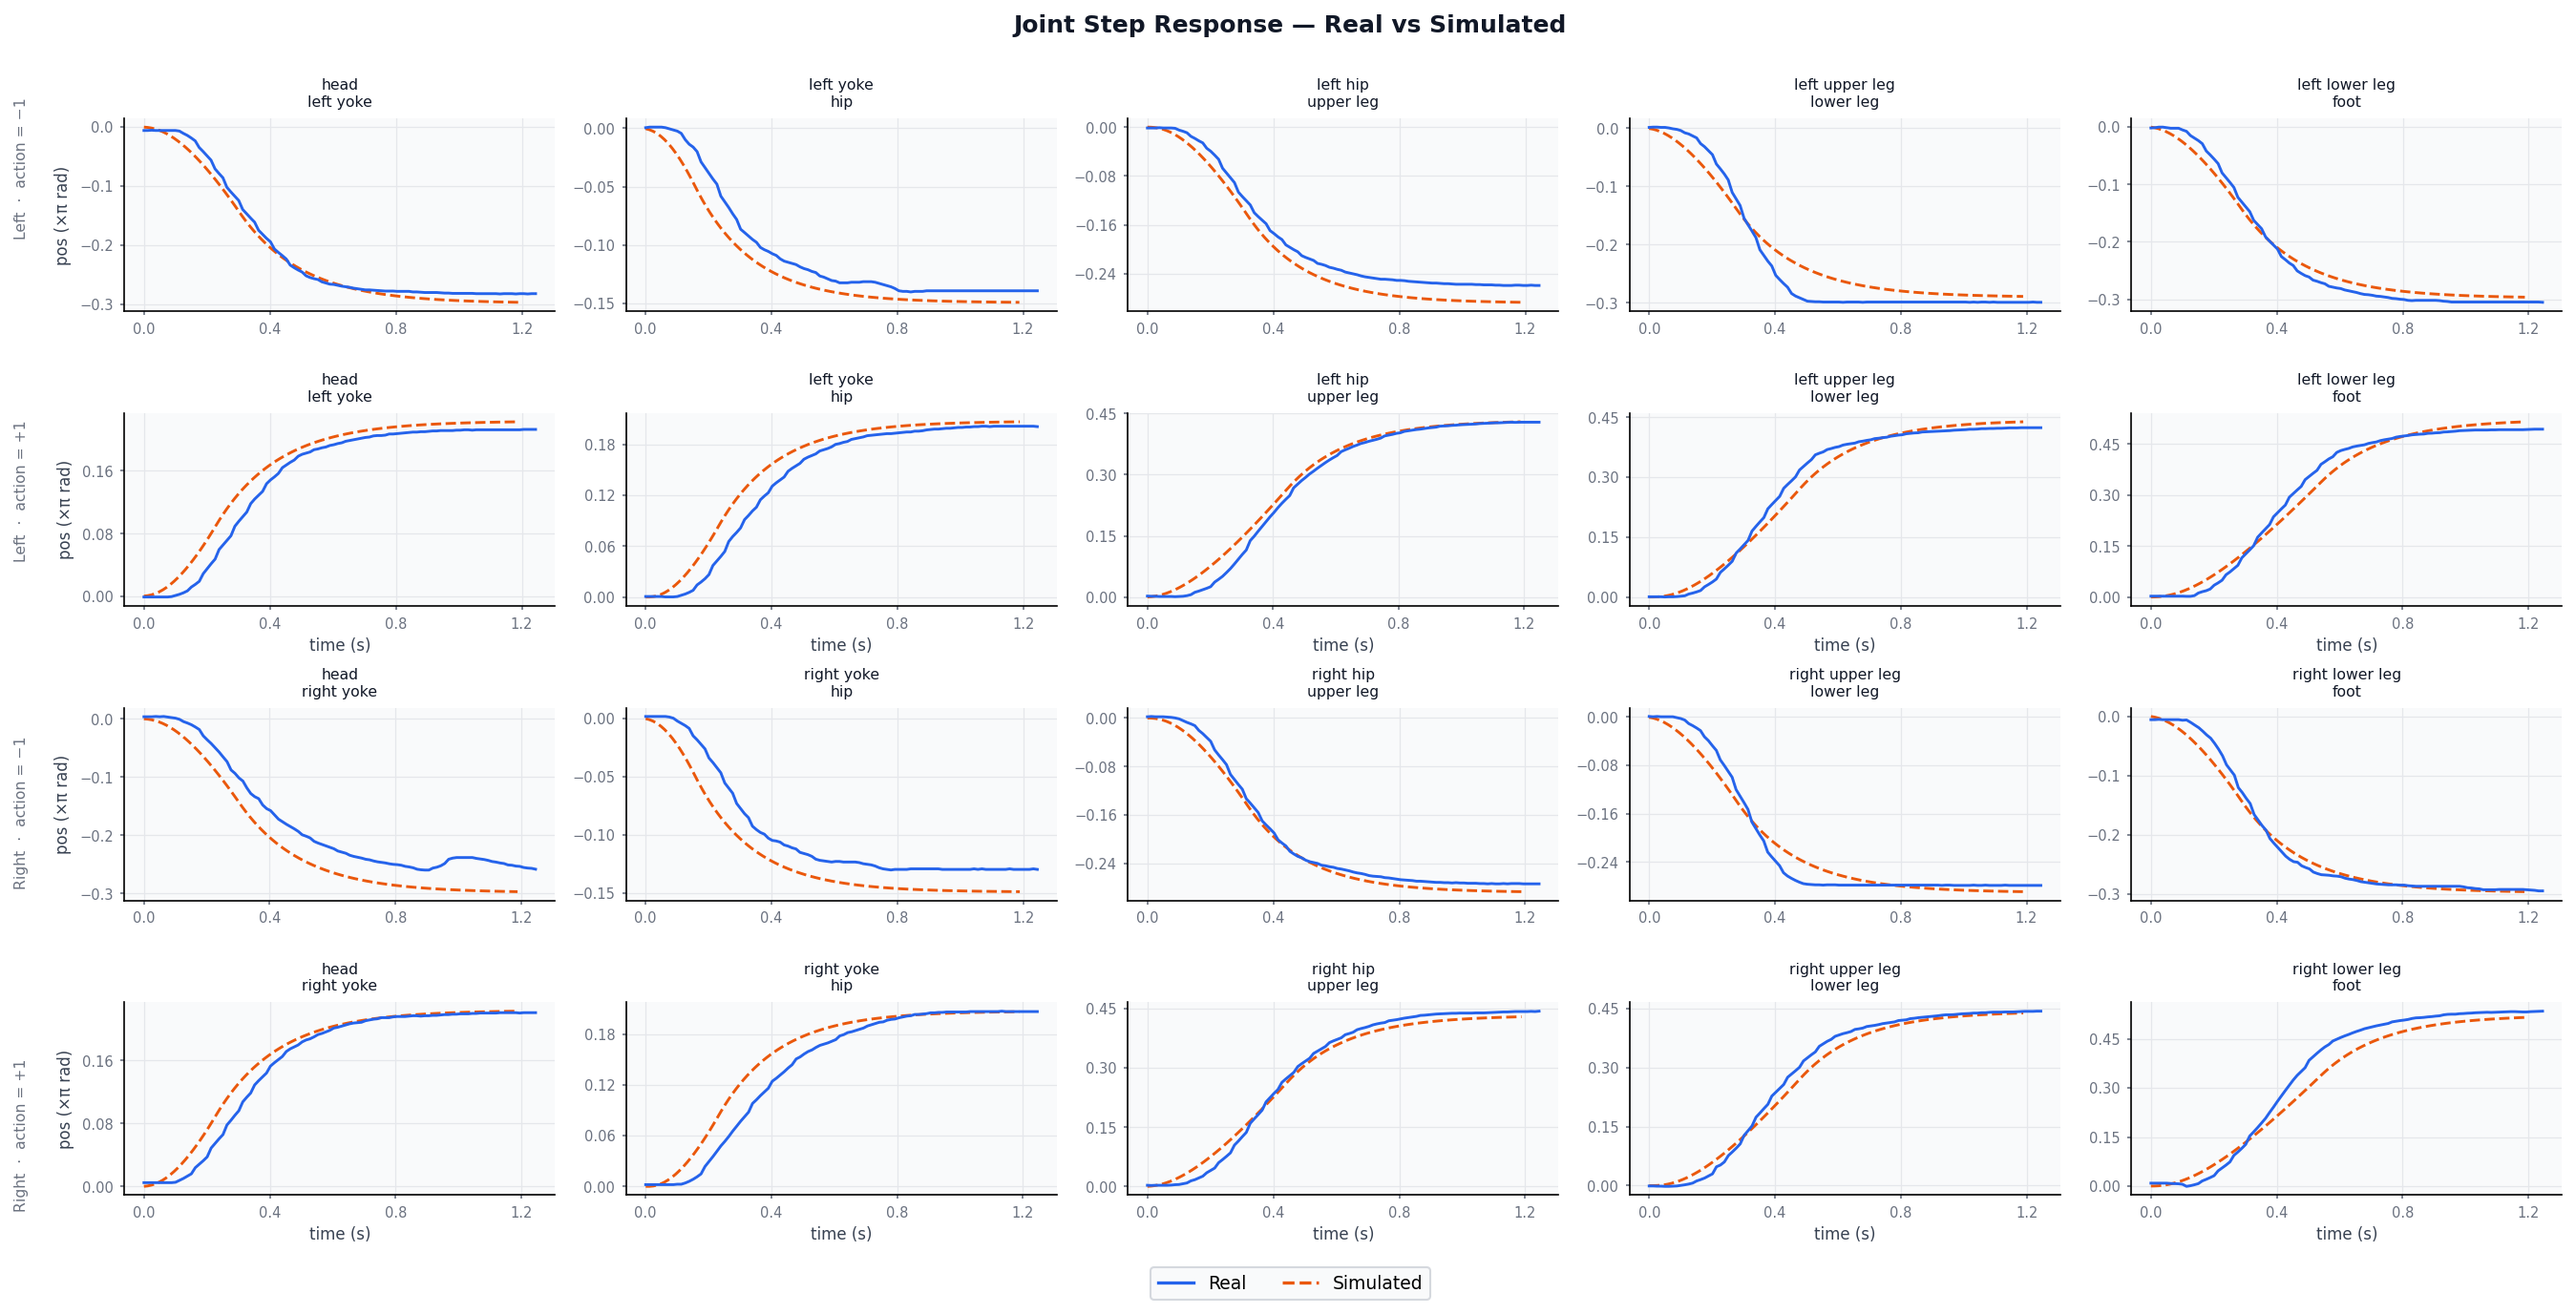
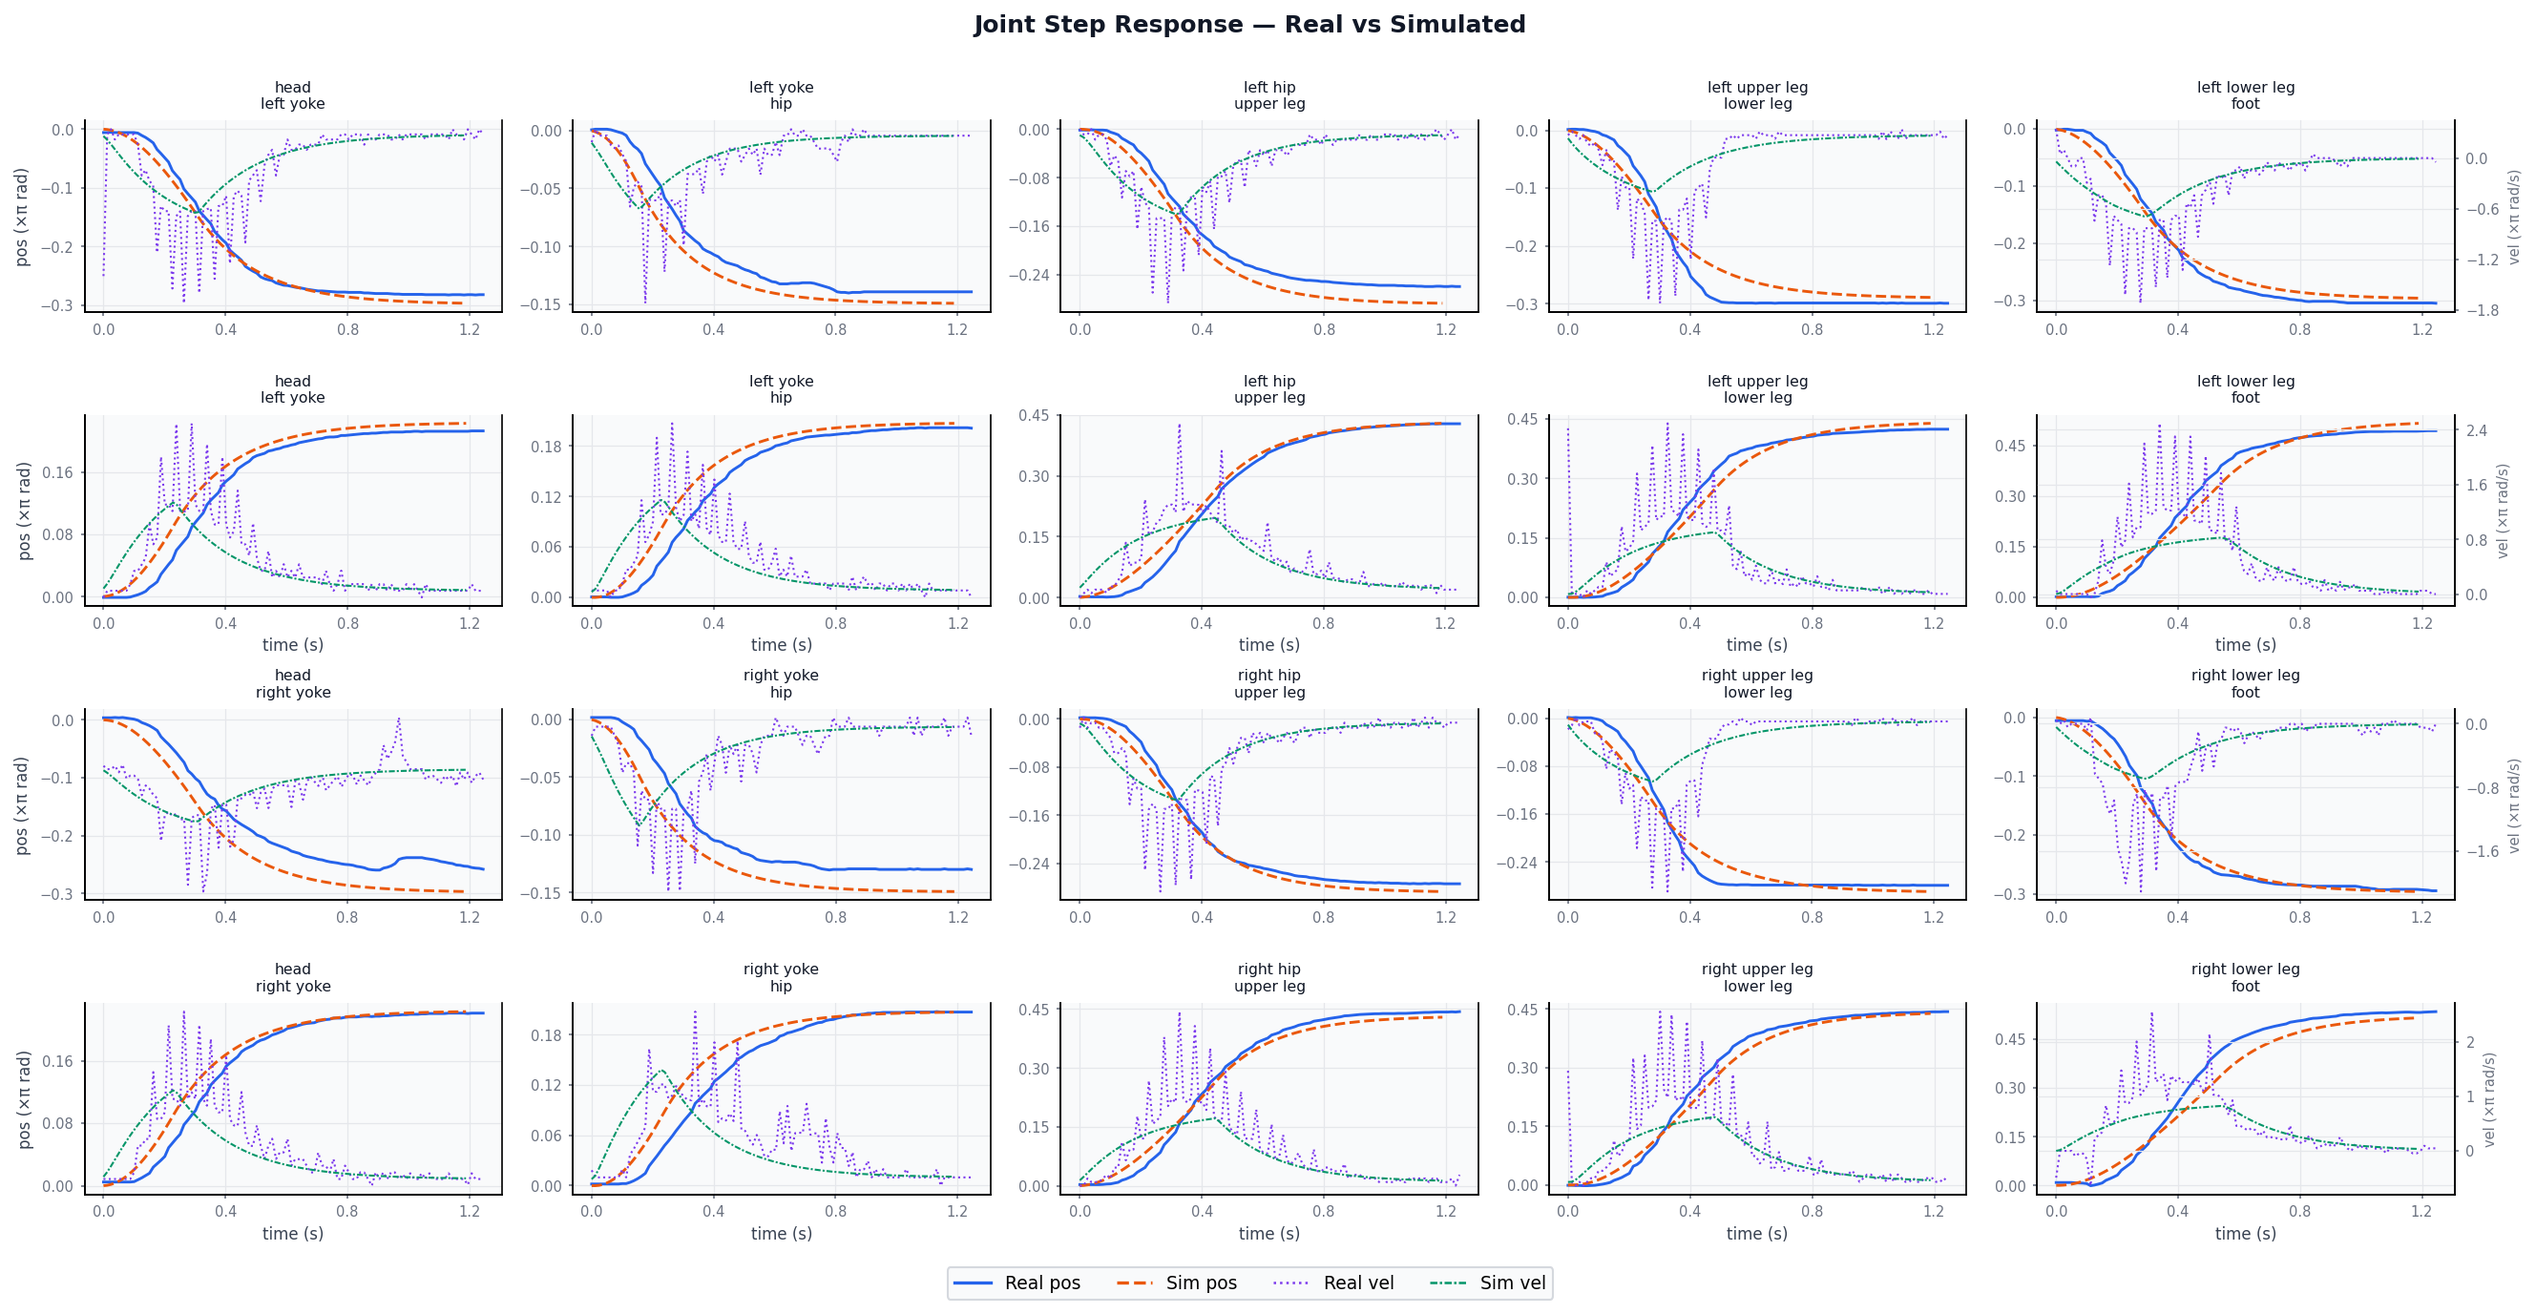
Add velocity plots to response curves

diff --git a/comparisons/plot_response_curves.py b/comparisons/plot_response_curves.py
@@ -16,8 +16,10 @@ JOINTS = [
     "right_lower_leg__foot",
 ]
 
-REAL_COLOR = "#2563EB"
-SIM_COLOR  = "#EA580C"
+REAL_POS_COLOR = "#2563EB"
+SIM_POS_COLOR  = "#EA580C"
+REAL_VEL_COLOR = "#7C3AED"
+SIM_VEL_COLOR  = "#059669"
 
 def format_joint_name(name):
     a, b = name.split("__")
@@ -42,7 +44,6 @@ plt.rcParams.update({
     "font.family": "sans-serif",
     "font.size": 8,
     "axes.spines.top": False,
-    "axes.spines.right": False,
     "axes.grid": True,
     "grid.color": "#E5E7EB",
     "grid.linewidth": 0.6,
@@ -62,14 +63,6 @@ fig, axs = plt.subplots(4, 5, figsize=(18, 9), sharex=False)
 fig.suptitle("Joint Step Response — Real vs Simulated", fontsize=12, fontweight="bold",
              color="#111827", y=0.995)
 
-# Row header labels: (row, label)
-row_labels = [
-    (0, "Left  ·  action = −1"),
-    (1, "Left  ·  action = +1"),
-    (2, "Right  ·  action = −1"),
-    (3, "Right  ·  action = +1"),
-]
-
 k = 0
 for i, joint in enumerate(JOINTS):
     for j, action in enumerate([-1, 1]):
@@ -77,44 +70,55 @@ for i, joint in enumerate(JOINTS):
             k = 2
         row = j + k
         ax = axs[row, i % 5]
+        ax_v = ax.twinx()
 
-        t_real, pos_real, _ = get_entry(real_data, joint, action)
-        t_sim,  pos_sim,  _ = get_entry(sim_data,  joint, action)
+        t_real, pos_real, vel_real = get_entry(real_data, joint, action)
+        t_sim,  pos_sim,  vel_sim  = get_entry(sim_data,  joint, action)
 
         if t_real is not None:
-            ax.plot(t_real, pos_real, color=REAL_COLOR, linewidth=1.4,
-                    label="Real", zorder=3)
+            ax.plot(t_real, pos_real, color=REAL_POS_COLOR, linewidth=1.4,
+                    label="Real pos", zorder=3)
+            ax_v.plot(t_real, vel_real, color=REAL_VEL_COLOR, linewidth=1.0,
+                      linestyle=":", label="Real vel", zorder=2)
         if t_sim is not None:
-            ax.plot(t_sim, pos_sim, color=SIM_COLOR, linewidth=1.4,
-                    linestyle="--", label="Sim", zorder=2)
+            ax.plot(t_sim, pos_sim, color=SIM_POS_COLOR, linewidth=1.4,
+                    linestyle="--", label="Sim pos", zorder=3)
+            ax_v.plot(t_sim, vel_sim, color=SIM_VEL_COLOR, linewidth=1.0,
+                      linestyle=(0, (3, 1, 1, 1)), label="Sim vel", zorder=2)
 
         ax.set_title(format_joint_name(joint))
-        ax.xaxis.set_major_locator(ticker.MaxNLocator(4, integer=False))
+        ax.xaxis.set_major_locator(ticker.MaxNLocator(4))
         ax.yaxis.set_major_locator(ticker.MaxNLocator(4))
+        ax_v.yaxis.set_major_locator(ticker.MaxNLocator(4))
         ax.tick_params(length=2)
+        ax_v.tick_params(length=2)
+
+        ax.spines["top"].set_visible(False)
+        ax_v.spines["top"].set_visible(False)
+
+        # Only show right-side vel axis on the last column of each group
+        if i % 5 == 4:
+            ax_v.set_ylabel("vel (×π rad/s)", labelpad=4, color="#6B7280", fontsize=7)
+            ax_v.yaxis.label.set_color("#6B7280")
+            ax_v.tick_params(colors="#6B7280")
+        else:
+            ax_v.set_yticks([])
+            ax_v.spines["right"].set_visible(False)
 
         if i % 5 == 0:
             ax.set_ylabel("pos (×π rad)", labelpad=4)
         if row == 3 or (row == 1 and i < 5):
             ax.set_xlabel("time (s)", labelpad=3)
 
-    k = 0  # reset after first joint; set again when i >= 5
+    k = 0
 
-# Row labels on far-left edge
-for row, label in row_labels:
-    fig.text(
-        0.005, 1 - (row + 0.5) / 4,
-        label, va="center", ha="left",
-        fontsize=7.5, color="#6B7280",
-        rotation=90, transform=fig.transFigure,
-    )
-
-# Shared legend in an empty corner area
 handles = [
-    plt.Line2D([0], [0], color=REAL_COLOR, linewidth=1.6, label="Real"),
-    plt.Line2D([0], [0], color=SIM_COLOR,  linewidth=1.6, linestyle="--", label="Simulated"),
+    plt.Line2D([0], [0], color=REAL_POS_COLOR, linewidth=1.6,                       label="Real pos"),
+    plt.Line2D([0], [0], color=SIM_POS_COLOR,  linewidth=1.6, linestyle="--",       label="Sim pos"),
+    plt.Line2D([0], [0], color=REAL_VEL_COLOR, linewidth=1.2, linestyle=":",        label="Real vel"),
+    plt.Line2D([0], [0], color=SIM_VEL_COLOR,  linewidth=1.2, linestyle=(0,(3,1,1,1)), label="Sim vel"),
 ]
-fig.legend(handles=handles, loc="lower center", ncol=2,
+fig.legend(handles=handles, loc="lower center", ncol=4,
            frameon=True, framealpha=0.9, edgecolor="#D1D5DB",
            fontsize=9, bbox_to_anchor=(0.5, -0.01))
 
